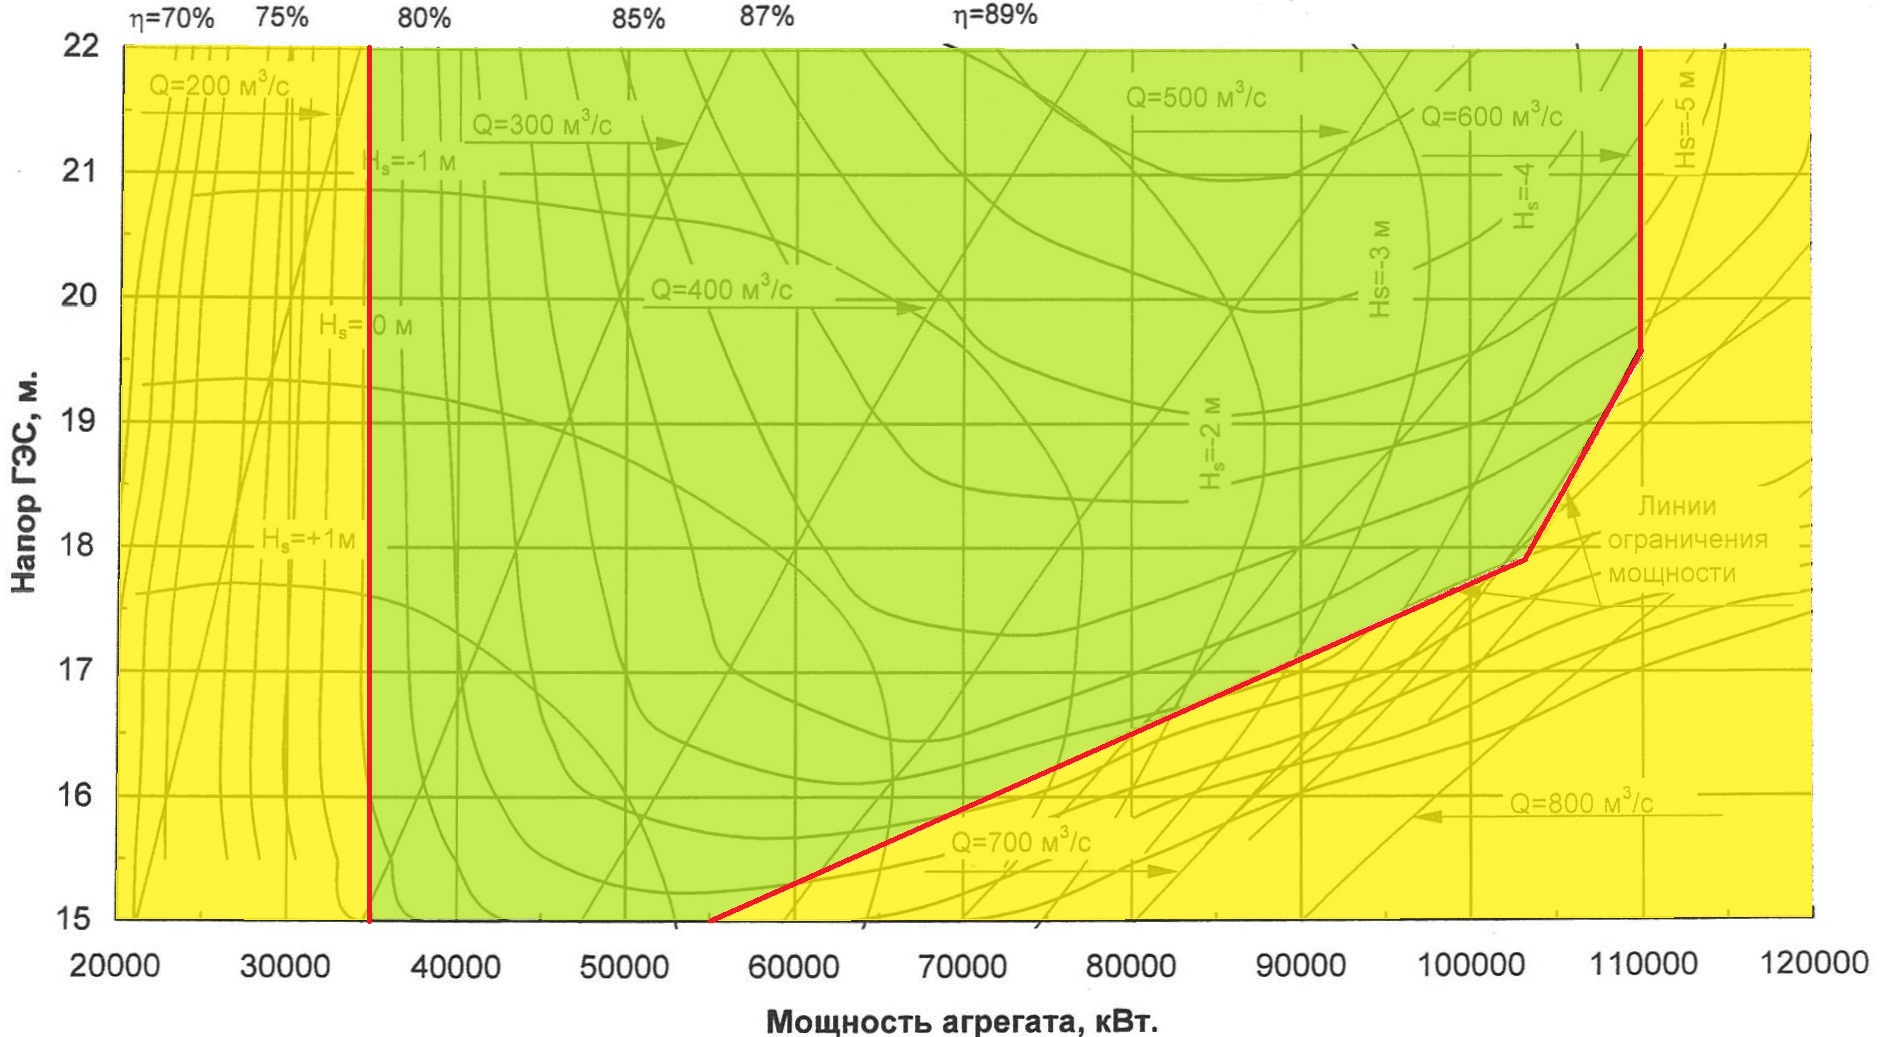
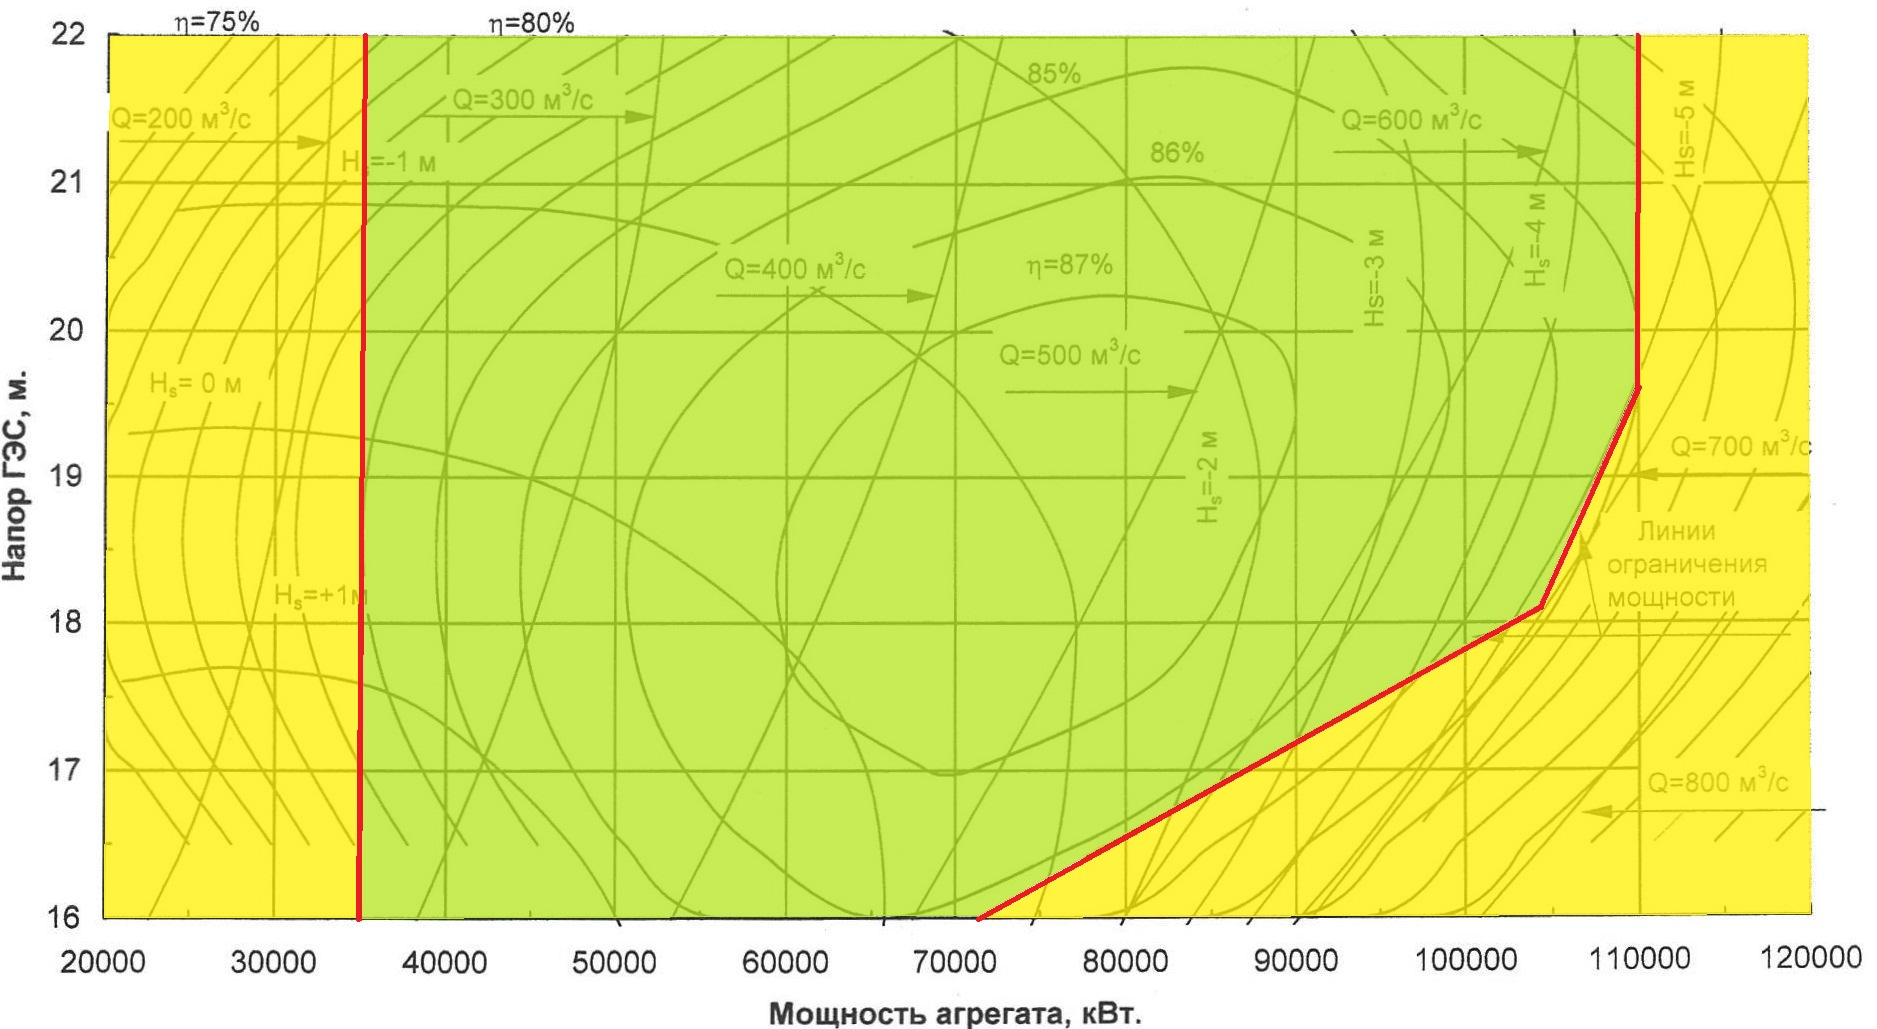
159

Changed region(s): [[0.0, 0.0, 0.9888, 1.0]]

diff --git a/VotGES/MainSL/Views/OgranPage.xaml.cs b/VotGES/MainSL/Views/OgranPage.xaml.cs
@@ -111,17 +111,17 @@ namespace MainSL.Views {
 
 			switch (ga) {
 				case 1:
-					left = wid * 0.065;
-					top = hei * 0.044;
-					bot = hei * 0.887;
-					right = wid * 0.957;
-					break;
-				case 2:
 					left = wid * 0.058;
 					top = hei * 0.035;
 					bot = hei * 0.894;
 					right = wid * 0.9632;
 					break;
+				case 2:
+					left = wid * 0.065;
+					top = hei * 0.044;
+					bot = hei * 0.887;
+					right = wid * 0.957;
+					break;				
 				case 3:
 					left = wid * 0.0598;
 					top = hei * 0.056;

diff --git a/VotGES/VotGES.Web/Services/OgranGAService.cs b/VotGES/VotGES.Web/Services/OgranGAService.cs
@@ -35,8 +35,8 @@ namespace VotGES.Web.Services {
 			serie.Enabled = true;
 			serie.YAxisIndex = 0;
 
-			//answer.ChartAnswer = KPDLine.createKPDTable(ga);
-			answer.ChartAnswer = ChartAnswer.getEmptyAnswer();		
+			answer.ChartAnswer = KPDLine.createKPDTable(ga);
+			//answer.ChartAnswer = ChartAnswer.getEmptyAnswer();		
 			answer.ChartAnswer.AllowZoom = false;
 			answer.ChartAnswer.AllowTrack = false;
 			answer.ChartAnswer.Properties.Series.Add(serie);
